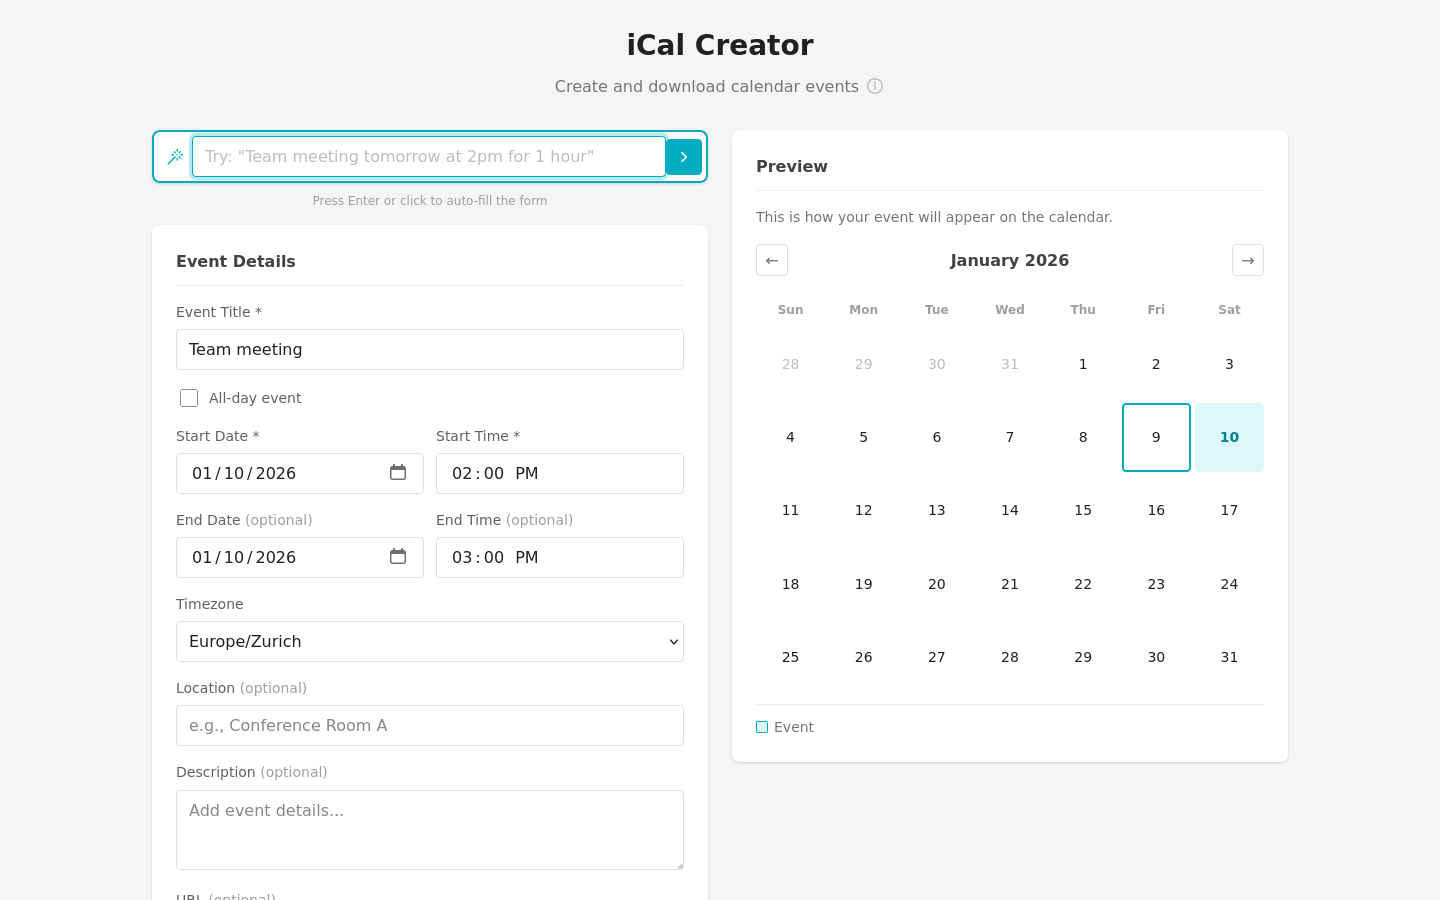
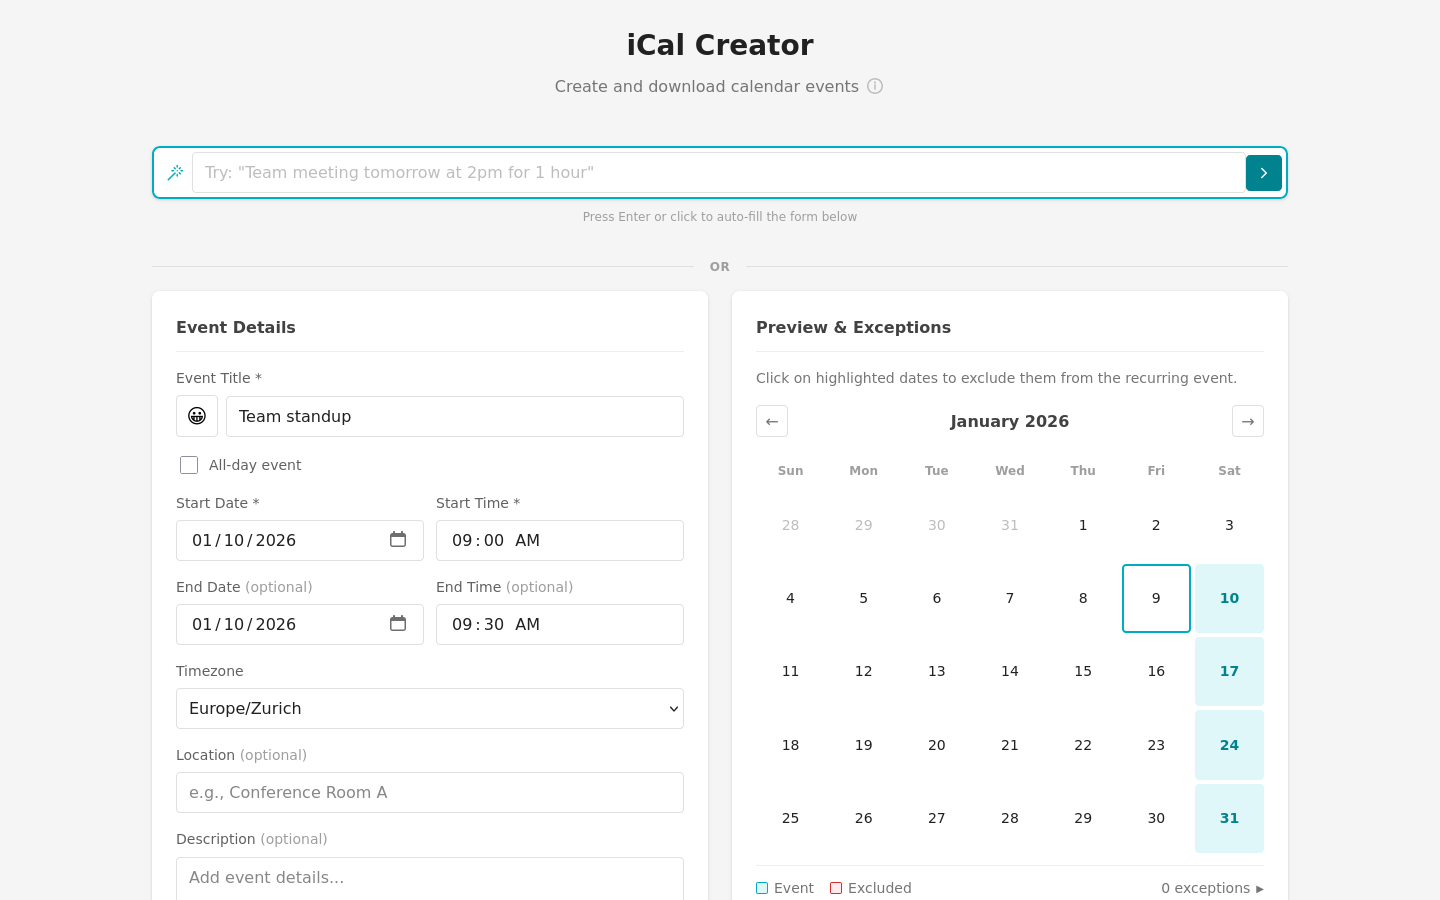
feat: Redesign NLI to span full width with OR divider
- Move Quick Add input outside form to span full width at top
- Add "OR" divider between NLI and form sections
- Make NLI sticky at top when scrolling
- Implement "fire and forget" behavior (auto-clear after execution)
- Update screenshots and add demo GIF
- Bump version to 1.5.0

diff --git a/ical-creator.html b/ical-creator.html
@@ -44,33 +44,40 @@
       </div>
     </div>
 
+    <!-- Quick Add Section (spans full width, sticky) -->
+    <div class="quick-add-section" id="quickAddSection">
+      <div class="quick-add-container">
+        <div class="quick-add-input-wrapper">
+          <svg class="quick-add-icon" width="18" height="18" viewBox="0 0 24 24" fill="none" stroke="currentColor" stroke-width="2" stroke-linecap="round" stroke-linejoin="round">
+            <path d="M15 4V2"/>
+            <path d="M15 16v-2"/>
+            <path d="M8 9h2"/>
+            <path d="M20 9h2"/>
+            <path d="M17.8 11.8L19 13"/>
+            <path d="M15 9h0"/>
+            <path d="M17.8 6.2L19 5"/>
+            <path d="m3 21 9-9"/>
+            <path d="M12.2 6.2L11 5"/>
+          </svg>
+          <input type="text" id="quickAddInput" class="quick-add-input" placeholder='Try: "Team meeting tomorrow at 2pm for 1 hour"' aria-label="Quick add event">
+          <button type="button" id="quickAddBtn" class="quick-add-btn" aria-label="Parse and fill form">
+            <svg width="18" height="18" viewBox="0 0 24 24" fill="none" stroke="currentColor" stroke-width="2" stroke-linecap="round" stroke-linejoin="round">
+              <polyline points="9 18 15 12 9 6"/>
+            </svg>
+          </button>
+        </div>
+        <p class="quick-add-hint">Press Enter or click to auto-fill the form below</p>
+      </div>
+    </div>
+
+    <!-- OR Divider -->
+    <div class="or-divider">
+      <span class="or-divider-text">OR</span>
+    </div>
+
     <div class="form-area">
       <div class="form-inputs">
         <form id="eventForm" novalidate>
-        <!-- Quick Add -->
-        <div class="quick-add-container">
-          <div class="quick-add-input-wrapper">
-            <svg class="quick-add-icon" width="18" height="18" viewBox="0 0 24 24" fill="none" stroke="currentColor" stroke-width="2" stroke-linecap="round" stroke-linejoin="round">
-              <path d="M15 4V2"/>
-              <path d="M15 16v-2"/>
-              <path d="M8 9h2"/>
-              <path d="M20 9h2"/>
-              <path d="M17.8 11.8L19 13"/>
-              <path d="M15 9h0"/>
-              <path d="M17.8 6.2L19 5"/>
-              <path d="m3 21 9-9"/>
-              <path d="M12.2 6.2L11 5"/>
-            </svg>
-            <input type="text" id="quickAddInput" class="quick-add-input" placeholder='Try: "Team meeting tomorrow at 2pm for 1 hour"' aria-label="Quick add event">
-            <button type="button" id="quickAddBtn" class="quick-add-btn" aria-label="Parse and fill form">
-              <svg width="18" height="18" viewBox="0 0 24 24" fill="none" stroke="currentColor" stroke-width="2" stroke-linecap="round" stroke-linejoin="round">
-                <polyline points="9 18 15 12 9 6"/>
-              </svg>
-            </button>
-          </div>
-          <p class="quick-add-hint">Press Enter or click to auto-fill the form</p>
-        </div>
-
         <!-- Basic Event Info -->
         <section class="card" aria-labelledby="basic-info-title">
         <h2 class="card-title" id="basic-info-title">Event Details</h2>

diff --git a/styles.css b/styles.css
@@ -67,8 +67,43 @@
     }
 
     /* ==================== Quick Add ==================== */
+    .quick-add-section {
+      position: sticky;
+      top: 0;
+      z-index: 50;
+      background: var(--gray-100);
+      padding: 16px 0 0 0;
+      margin-bottom: 0;
+    }
+
     .quick-add-container {
-      margin-bottom: 16px;
+      margin-bottom: 0;
+    }
+
+    /* OR Divider */
+    .or-divider {
+      display: flex;
+      align-items: center;
+      justify-content: center;
+      margin: 16px 0;
+      position: relative;
+    }
+
+    .or-divider::before,
+    .or-divider::after {
+      content: '';
+      flex: 1;
+      height: 1px;
+      background: var(--gray-300);
+    }
+
+    .or-divider-text {
+      padding: 0 16px;
+      font-size: 0.75rem;
+      font-weight: 600;
+      color: var(--gray-500);
+      text-transform: uppercase;
+      letter-spacing: 0.05em;
     }
 
     .quick-add-input-wrapper {
@@ -918,6 +953,12 @@
         padding: 24px 32px;
       }
 
+      /* Quick add section spans full width on desktop */
+      .quick-add-section {
+        top: 0;
+        padding: 16px 0;
+      }
+
       /* Form area uses two-column grid */
       .form-area {
         display: grid;
@@ -934,10 +975,10 @@
         gap: 16px;
       }
 
-      /* Right column: preview section */
+      /* Right column: preview section - offset for sticky header */
       .form-preview {
         position: sticky;
-        top: 24px;
+        top: 100px;
         align-self: start;
       }
 

diff --git a/doc/stories/pr/natural-language-input.md b/doc/stories/pr/natural-language-input.md
@@ -34,26 +34,37 @@ Add a text field that parses natural language like "Team meeting tomorrow at 3pm
 8. Fill form fields and trigger relevant UI updates
 9. Write Playwright tests for parsing
 
+### Layout Redesign (2026-01-09)
+Based on user feedback, redesigned the NLI layout:
+- Moved NLI to span full width at top (above form + preview columns)
+- Added "OR" divider between NLI and form below
+- Made NLI sticky at top when scrolling
+- Implemented "fire and forget" behavior (NLI auto-clears after execution)
+
 ### Assumptions
 - Will use pure JavaScript regex, no external NLP library
 - Focus on English language patterns only
 - Title will be whatever text remains after extracting date/time/recurrence
 - User pressed Enter or clicks button to parse and fill form
-- Show parsed result in input as placeholder/hint
+- "Fire and forget" model: NLI clears after filling form
 
 ### End Timestamp
-2026-01-09 01:48:00
+2026-01-09 23:30:00
 
 ### Duration
-~56 minutes (planning and implementation)
+~2 hours (initial implementation + layout redesign)
+
+## Demo
+
+![Natural Language Input Demo](natural-language-demo.gif)
 
 ## Screenshots
 
 ### Desktop View
-![Quick Add input on desktop](screenshots/natural-language-desktop.png)
+![Quick Add input on desktop](natural-language-desktop.png)
 
 ### Desktop View (After Parsing)
-![Form filled after natural language parsing](screenshots/natural-language-desktop-filled.png)
+![Form filled after natural language parsing](natural-language-desktop-filled.png)
 
 ### Mobile View
-![Quick Add input on mobile](screenshots/natural-language-mobile.png)
+![Quick Add input on mobile](natural-language-mobile.png)
